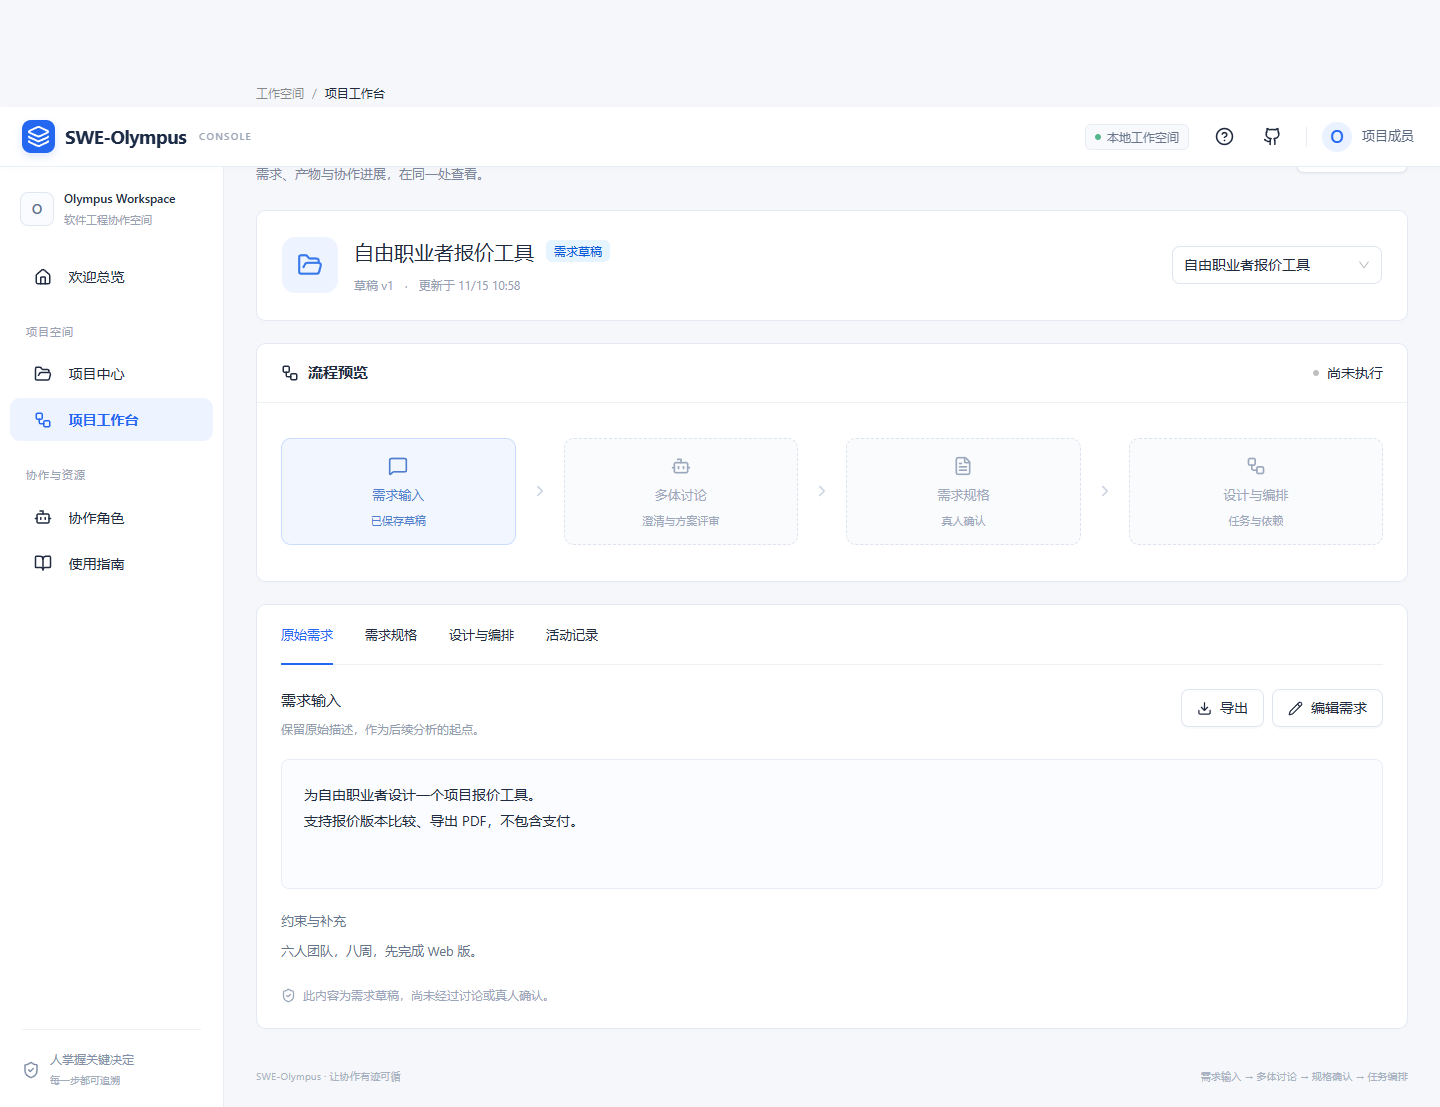
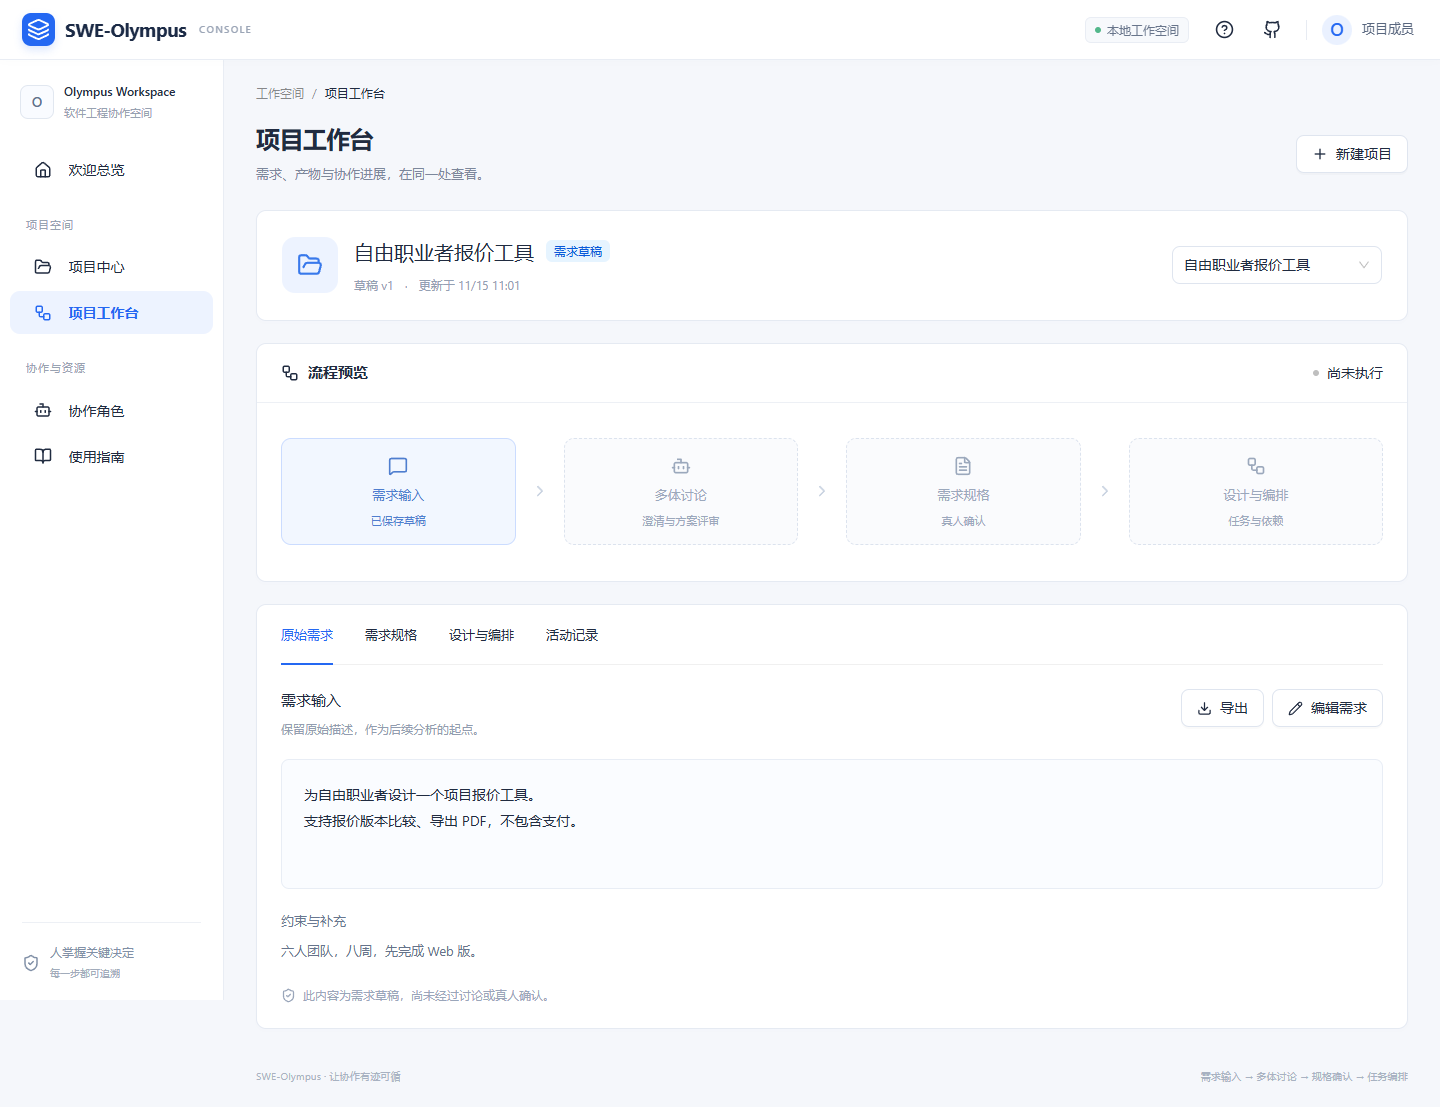
fix(ui): keep project navigation and preview at page top

diff --git a/frontend/tests/e2e/shell.spec.ts b/frontend/tests/e2e/shell.spec.ts
@@ -26,6 +26,7 @@ test("arbitrary prompts create separate editable drafts without invented output"
   await page.getByRole("button", { name: "创建需求草稿" }).click();
   await expect(page.locator(".prompt-content")).toHaveText(prompt);
   await expect(page.getByText("尚未执行", { exact: true })).toBeVisible();
+  await expect.poll(() => page.evaluate(() => window.scrollY)).toBe(0);
   await page.screenshot({
     path: info.outputPath("workstation.png"),
     fullPage: true,

diff --git a/frontend/src/App.tsx b/frontend/src/App.tsx
@@ -227,6 +227,7 @@ export function OlympusApp() {
   }, []);
   useEffect(() => {
     document.title = `${pages[page]} · SWE-Olympus`;
+    window.scrollTo(0, 0);
   }, [page]);
   function navigate(next: Page) {
     setPage(next);
